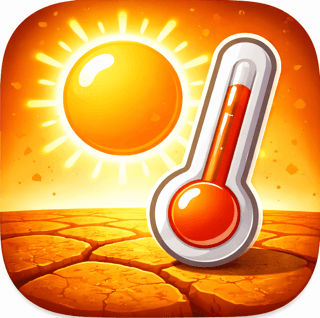
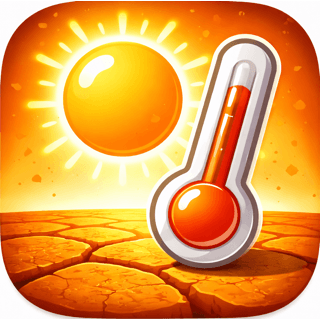
Fix heatwave.png palette mode + centerPoint radius filter
- Convert heatwave.png from palette (P) to RGBA and make square (320x320),
  fixing badge not rendering in React Native (same fix as warmanddry.png)
- Fix visibleMarkers radius filter using effectiveCenter (centerPoint or
  location) instead of only location, so markers show when using custom
  center via long-press

Made-with: Cursor

diff --git a/src/ui/screens/MapScreen.js b/src/ui/screens/MapScreen.js
@@ -1146,14 +1146,15 @@ const MapScreen = ({ navigation }) => {
 
   const visibleMarkers = useMemo(() => {
     if (!displayDestinations.length || !location || !radius) return [];
+    const effectiveCenter = centerPoint || location;
     const inRadiusDestinations = displayDestinations.filter(d => {
       const lat = d.lat ?? d.latitude;
       const lon = d.lon ?? d.longitude;
       if (!lat || !lon) return false;
-      return getDistanceKm(location.latitude, location.longitude, lat, lon) <= radius;
+      return getDistanceKm(effectiveCenter.latitude, effectiveCenter.longitude, lat, lon) <= radius;
     });
     return getVisibleMarkers(inRadiusDestinations, currentZoom, currentBounds, favouriteDestinations);
-  }, [displayDestinations, currentZoom, currentBounds, location, radius, favouriteDestinations]);
+  }, [displayDestinations, currentZoom, currentBounds, location, radius, favouriteDestinations, centerPoint]);
 
   // Track map_view_count as a side-effect of visibleMarkers changing
   useEffect(() => {
